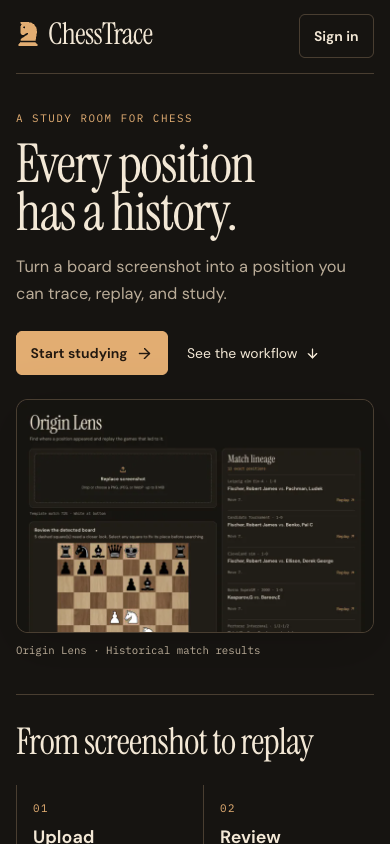
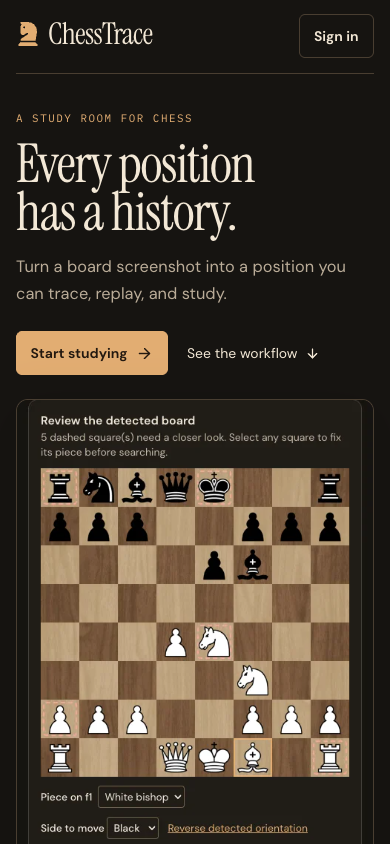
task 5.4: apply the five highest-impact design critique fixes

Changed region(s): [[0.0308, 0.4929, 0.9538, 1.0]]

diff --git a/client-ui/src/pages/OriginLens.jsx b/client-ui/src/pages/OriginLens.jsx
@@ -128,11 +128,16 @@ export default function OriginLens() {
   const uploading = phase === 'uploading';
   const uploadDisabled = visionHealthStatus === 'waking' || visionHealthStatus === 'error';
   const confidence = Math.round((visionResult?.theme_match_confidence ?? 0) * 100);
-  const matches = searchResult?.matches ?? [];
+  const games = new Map();
+  for (const match of searchResult?.matches ?? []) {
+    const key = match.gameId ?? match.game?.id ?? match.id;
+    if (!games.has(key)) games.set(key, match);
+  }
+  const matches = [...games.values()];
 
   return (
-    <main className="lens-workspace">
-      <header className="lens-header">
+    <main className="ct-workspace">
+      <header className="ct-workspace-header">
         <h1>Origin Lens</h1>
         <p>Find where a position appeared and replay the games that led to it.</p>
       </header>
@@ -144,7 +149,7 @@ export default function OriginLens() {
           {visionHealthStatus === 'error' && (
             <p role="alert" className="ct-panel p-3 text-sm text-red-700">The vision service is unavailable. <button type="button" className="underline" onClick={() => window.location.reload()}>Retry connection</button></p>
           )}
-          <div className="ct-panel lens-upload"
+          <div className="ct-panel lens-upload" data-has-result={!!visionResult}
             onDrop={event => { if (uploadDisabled) event.preventDefault(); else handleDrop(event); }}
             onDragOver={event => { event.preventDefault(); if (!uploadDisabled) setDragOver(true); }}
             onDragLeave={() => setDragOver(false)}>
@@ -152,7 +157,7 @@ export default function OriginLens() {
               disabled={uploadDisabled} onClick={() => fileRef.current?.click()}>
               {uploading ? <Loader2 size={22} className="text-accent animate-spin" aria-hidden="true" /> : <Upload size={22} className="text-accent" aria-hidden="true" />}
               <span className="font-semibold">{uploading ? 'Reading the board…' : previewUrl ? 'Replace screenshot' : 'Upload a board screenshot'}</span>
-              <span className="text-xs text-slate-500">Drop or choose a PNG, JPEG, or WebP · up to 8 MiB</span>
+              {!visionResult && <span className="text-xs text-slate-500">Drop or choose a PNG, JPEG, or WebP · up to 8 MiB</span>}
             </button>
             <input ref={fileRef} type="file" aria-label="Board screenshot" accept="image/png,image/jpeg,image/webp"
               className="hidden" onChange={handleFileSelect} />
@@ -180,8 +185,8 @@ export default function OriginLens() {
           )}
         </section>
 
-        <aside className="ct-panel lens-lineage" aria-label="Match lineage">
-          <h2>Match lineage</h2>
+        <aside className="ct-panel lens-lineage" aria-label="Matching games">
+          <h2>Matching games</h2>
           {phase === 'searching' ? (
             <div role="status" className="space-y-3 pt-4">
               <span className="sr-only">Searching the game database.</span>
@@ -189,7 +194,7 @@ export default function OriginLens() {
             </div>
           ) : searchResult ? (
             <>
-              <p className="mt-2 font-mono text-xs text-accent">{matches.length} {searchResult.matchType === 'exact' ? 'exact' : 'similar'} {matches.length === 1 ? 'position' : 'positions'}</p>
+              <p className="mt-2 font-mono text-xs text-accent">{matches.length} {matches.length === 1 ? 'game' : 'games'} with {searchResult.matchType === 'exact' ? 'this position' : 'similar positions'}</p>
               {!matches.length && <p className="py-6 text-sm text-slate-500">No matching games found. Check the position and side to move.</p>}
               {replay && <div className="my-4"><GameReplay key={replay.id} match={replay} /></div>}
               <ol>
@@ -200,12 +205,12 @@ export default function OriginLens() {
                     whiteName: game.whiteName, blackName: game.blackName };
                   return (
                     <li key={match.id} className="lens-match">
-                      <p className="font-mono text-xs text-slate-500">{[game.event, year, game.result].filter(Boolean).join(' · ') || 'Tournament details unavailable'}</p>
-                      <h3 className="text-base font-semibold">{game.whiteName} <span className="text-slate-500">vs.</span> {game.blackName}</h3>
-                      <div className="flex items-center justify-between gap-2">
-                        <span className="font-mono text-xs text-slate-500">Move {Math.ceil(match.halfMove / 2)}{match.halfMove % 2 ? '.' : '…'}</span>
+                      <p className="font-mono text-xs text-slate-500">{[game.event, year, game.result,
+                        `Move ${Math.ceil(match.halfMove / 2)}${match.halfMove % 2 ? '.' : '…'}`].filter(Boolean).join(' · ')}</p>
+                      <div className="flex items-center justify-between gap-3">
+                        <h3 className="text-base font-semibold">{game.whiteName} <span className="text-slate-500">vs.</span> {game.blackName}</h3>
                         {record.gameId && <button type="button" onClick={() => setReplay(record)}
-                          className="inline-flex min-h-11 items-center gap-1 text-sm text-accent" aria-pressed={replay?.id === match.id}>
+                          className="inline-flex min-h-11 shrink-0 items-center gap-1 text-sm text-accent" aria-pressed={replay?.id === match.id}>
                           Replay <ArrowUpRight size={15} aria-hidden="true" />
                         </button>}
                       </div>

diff --git a/client-ui/src/study.css b/client-ui/src/study.css
@@ -65,9 +65,9 @@
 .study-health { padding: .65rem 1rem; border-bottom: 1px solid var(--ct-line); font-size: .82rem; color: var(--ct-accent); }
 .study-menu { display: none; }
 
-.lens-workspace { max-width: 87rem; margin-inline: auto; padding: clamp(1rem, 3vw, 2.75rem); }
-.lens-header { margin-bottom: 1.4rem; }
-.lens-header p:last-child { color: var(--ct-muted); font-size: .92rem; margin-top: .6rem; }
+.ct-workspace { max-width: 87rem; margin-inline: auto; padding: clamp(1rem, 3vw, 2.75rem); }
+.ct-workspace-header { margin-bottom: 1.4rem; }
+.ct-workspace-header p:last-child { color: var(--ct-muted); font-size: .92rem; margin-top: .6rem; }
 .lens-layout { display: grid; grid-template-columns: minmax(0, 1.15fr) minmax(17rem, .85fr); gap: 1.25rem; align-items: start; }
 .lens-upload { padding: 1rem; }
 .lens-upload-action {
@@ -102,7 +102,7 @@
 @keyframes scan-board { from { top: 3%; } to { top: 96%; } }
 .lens-lineage { padding: 1.1rem; }
 .lens-lineage h2 { font: 400 2.15rem/1 var(--ct-font-display); }
-.lens-match { border-top: 1px solid var(--ct-line); padding: .9rem 0; display: grid; gap: .3rem; }
+.lens-match { border-top: 1px solid var(--ct-line); padding: .6rem 0 .4rem; }
 .lens-match:first-child { margin-top: .7rem; }
 .ct-skeleton { border-radius: .2rem; background: var(--ct-line); animation: pulse-skeleton 1400ms ease-in-out infinite alternate; }
 @keyframes pulse-skeleton { to { opacity: .45; } }
@@ -117,7 +117,7 @@
 
 @media (max-width: 900px) {
   .lens-layout { grid-template-columns: minmax(0,1fr); }
-  .study-shell { grid-template-columns: minmax(0,1fr); }
+  .study-shell { grid-template-columns: minmax(0,1fr); grid-template-rows: auto 1fr; }
   .study-sidebar { height: auto; z-index: 10; padding: .55rem 1rem; flex-direction: row; align-items: center; justify-content: space-between; border-right: none; border-bottom: 1px solid var(--ct-line); }
   .study-menu { display: inline-flex; min-height: 44px; min-width: 44px; align-items: center; justify-content: center; color: var(--ct-ink); }
   .study-sidebar .study-navigation { display: none; position: absolute; inset: 100% 0 auto; padding: .65rem 1rem; background: var(--ct-sidebar); border-bottom: 1px solid var(--ct-line); }
@@ -127,4 +127,22 @@
 }
 @media (min-width: 901px) {
   .study-sidebar { flex-direction: column; }
+}
+
+.lens-upload[data-has-result="true"] { padding: .5rem; }
+.lens-upload[data-has-result="true"] .lens-upload-action {
+  min-height: 3rem;
+  grid-template-columns: auto 1fr;
+  align-items: center;
+  justify-items: start;
+  padding: .45rem .8rem;
+  border-style: solid;
+}
+
+.sandbox-layout { display: grid; gap: 1.2rem; grid-template-columns: minmax(0,1fr) minmax(17rem,.57fr); align-items: start; }
+.sandbox-board { max-width: 36rem; }
+.sandbox-similar { grid-column: 1; min-width: 0; }
+@media (max-width: 1060px) {
+  .sandbox-layout { grid-template-columns: minmax(0,1fr); }
+  .sandbox-similar { grid-column: auto; }
 }

diff --git a/client-ui/src/pages/Sandbox.jsx b/client-ui/src/pages/Sandbox.jsx
@@ -64,27 +64,29 @@ export default function Sandbox() {
   }
 
   return (
-    <main className="p-4 md:p-8 space-y-5">
-      <h1 className="text-2xl font-semibold text-slate-900">Blueprint Sandbox</h1>
-      <div className="grid gap-6 xl:grid-cols-[minmax(0,1fr)_20rem]">
-        <section className="min-w-0 space-y-4">
+    <main className="ct-workspace">
+      <header className="ct-workspace-header">
+        <h1>Sandbox</h1>
+        <p>Play through a position, compare matches, and explore the next move.</p>
+      </header>
+      <div className="sandbox-layout">
+        <section className="sandbox-board min-w-0 space-y-4">
           <label className="block text-sm font-medium">FEN position
             <input type="text" value={fen} onChange={event => changeFen(event.target.value)}
               className="mt-1 w-full rounded-md border border-slate-300 p-2 font-mono text-xs" />
           </label>
-          {position.error && <p role="status" className="text-sm text-red-700">{position.error} Search DB is disabled.</p>}
+          {position.error && <p role="status" className="text-sm text-red-700">{position.error} Matching games is unavailable until the position is valid.</p>}
           <div className="max-w-xl">
             <Board fen={position.chess?.fen() ?? '8/8/8/8/8/8/8/8'} onMove={movePiece}
               interactive={!position.error} turnColor={position.chess?.turn() === 'b' ? 'black' : 'white'} viewOnly />
           </div>
           {moveError && <p role="status" className="text-sm text-red-700">{moveError}</p>}
           <button type="button" onClick={search} disabled={!!position.error || searching}
-            className="rounded bg-[var(--ct-accent)] px-4 py-2 font-medium text-white disabled:opacity-50">
-            {searching ? 'Searching…' : 'Search DB'}
+            className="ct-button">
+            {searching ? 'Searching…' : 'Find matching games'}
           </button>
           {searchError && <p role="alert" className="text-sm text-red-700">{searchError}</p>}
           {result && <p role="status" className="text-sm">{result.matches.length} {result.matchType === 'exact' ? 'exact' : 'similar'} positions found.</p>}
-          {!position.error && <SimilarPositions key={position.fen} fen={position.fen} />}
         </section>
         <section className="space-y-3">
           <div className="ct-panel"><MoveLedger moves={moves} /></div>
@@ -92,6 +94,7 @@ export default function Sandbox() {
             : <p className="rounded bg-slate-100 p-4 text-sm">Stockfish needs a position it can analyze safely. Check the FEN and try again.</p>}
           {position.error && position.engineFen && <p className="text-sm text-slate-600">Stockfish is analyzing with corrected position metadata.</p>}
         </section>
+        {!position.error && <div className="sandbox-similar"><SimilarPositions key={position.fen} fen={position.fen} /></div>}
       </div>
     </main>
   );

diff --git a/client-ui/src/pages/Landing.jsx b/client-ui/src/pages/Landing.jsx
@@ -4,7 +4,7 @@ import ChessTraceLogo from '../components/ChessTraceLogo';
 import { useAuth } from '../context/AuthContext';
 import '../landing.css';
 
-const imageSizes = '(max-width: 760px) calc(100vw - 32px), (max-width: 1350px) 54vw, 752px';
+const imageSizes = '(max-width: 1350px) 54vw, 752px';
 
 const steps = [
   ['Upload', 'Start with a screenshot of a digital chessboard.'],
@@ -38,8 +38,12 @@ export default function Landing() {
             </div>
           </div>
           <figure className="landing-figure">
-            <img src="/product/origin-lens.webp" srcSet="/product/origin-lens-720.webp 720w, /product/origin-lens.webp 1100w" sizes={imageSizes} alt="Origin Lens showing a reconstructed board and exact historical matches"
-              width="1100" height="715" fetchPriority="high" />
+            <picture>
+              <source media="(max-width: 760px)" srcSet="/product/origin-lens-mobile.webp" width="480" height="933" />
+              <img src="/product/origin-lens.webp" srcSet="/product/origin-lens-720.webp 720w, /product/origin-lens.webp 1100w" sizes={imageSizes}
+                alt="Origin Lens showing a reconstructed board and exact historical matches"
+                width="1100" height="926" fetchPriority="high" />
+            </picture>
             <figcaption>Origin Lens · Historical match results</figcaption>
           </figure>
         </section>
@@ -64,8 +68,12 @@ export default function Landing() {
             <Link to={token ? '/sandbox' : '/auth'} className="ct-quiet">Open Sandbox <ArrowRight size={16} aria-hidden="true" /></Link>
           </div>
           <figure className="landing-figure">
-            <img src="/product/sandbox.webp" srcSet="/product/sandbox-720.webp 720w, /product/sandbox.webp 1100w" sizes={imageSizes} alt="Sandbox showing the board, a move list, and Stockfish evaluation"
-              width="1100" height="656" loading="lazy" />
+            <picture>
+              <source media="(max-width: 760px)" srcSet="/product/sandbox-mobile.webp" width="480" height="1055" />
+              <img src="/product/sandbox.webp" srcSet="/product/sandbox-720.webp 720w, /product/sandbox.webp 1100w" sizes={imageSizes}
+                alt="Sandbox showing the board, a move list, and Stockfish evaluation"
+                width="1100" height="807" loading="lazy" />
+            </picture>
             <figcaption>Sandbox · Board, move list, and evaluation</figcaption>
           </figure>
         </section>

diff --git a/client-ui/index.html b/client-ui/index.html
@@ -11,8 +11,12 @@
         const preview = document.createElement('link');
         preview.rel = 'preload';
         preview.as = 'image';
-        preview.imageSrcset = '/product/origin-lens-720.webp 720w, /product/origin-lens.webp 1100w';
-        preview.imageSizes = '(max-width: 760px) calc(100vw - 32px), (max-width: 1350px) 54vw, 752px';
+        if (matchMedia('(max-width: 760px)').matches) {
+          preview.href = '/product/origin-lens-mobile.webp';
+        } else {
+          preview.imageSrcset = '/product/origin-lens-720.webp 720w, /product/origin-lens.webp 1100w';
+          preview.imageSizes = '(max-width: 1350px) 54vw, 752px';
+        }
         preview.fetchPriority = 'high';
         document.head.append(preview);
       }

diff --git a/client-ui/src/components/Board/Board.css b/client-ui/src/components/Board/Board.css
@@ -1,7 +1,4 @@
-/* ChessTrace board — light theme for chessground.
-   Chessground renders the board grid as a background on <cg-board>,
-   not as individual <square> elements. We paint a CSS checkerboard
-   gradient instead via the 64-div React grid in Board.jsx. */
+/* Keep the texture, piece grid and review targets on the same square. */
 
 .ct-board-host.cg-wrap {
   position: absolute;
@@ -17,6 +14,11 @@
 
 .ct-board-surface {
   background: #9b714b url('../../assets/boards/walnut.webp') center / 100% 100% no-repeat;
+}
+
+.ct-board-surface cg-container {
+  width: 100% !important;
+  height: 100% !important;
 }
 
 .ct-board-surface cg-board {

diff --git a/client-ui/src/components/Board/MoveLedger.jsx b/client-ui/src/components/Board/MoveLedger.jsx
@@ -30,7 +30,7 @@ export function MoveLedger({ moves, ply = moves.length, onSelect, comments }) {
     <section aria-label="Move list">
       <div className="flex items-center justify-between px-3 py-2">
         <h3 className="text-sm font-semibold">Move list</h3>
-        <span className="font-mono text-xs text-slate-500">{moves.length} half-moves</span>
+        <span className="font-mono text-xs text-slate-500">{moves.length} {moves.length === 1 ? 'half-move' : 'half-moves'}</span>
       </div>
       <div className="move-ledger font-mono text-xs">
         {rows.size ? [...rows.values()].map(row => (

diff --git a/client-ui/src/index.css b/client-ui/src/index.css
@@ -90,6 +90,6 @@
     animation-duration: .01ms !important;
     animation-iteration-count: 1 !important;
     scroll-behavior: auto !important;
-    transition-duration: .01ms !important;
+    transition: none !important;
   }
 }

diff --git a/docs/ui/CRITIQUE.md b/docs/ui/CRITIQUE.md
@@ -1,0 +1,18 @@
+# Astra design review
+
+A separate critique reviewed the desktop and mobile screenshots and the relevant components. The findings are ordered by impact.
+
+| Rank | Finding | Resolution |
+| ---: | --- | --- |
+| 1 | Mobile Lens had about 100px of space between the navigation and title. | Give the header a content-sized grid row and let the workspace take the remaining height. |
+| 2 | The upload control occupied about 200px after a board had been recognized. | Use a compact replace control in review state so the board and search action come into view earlier. |
+| 3 | Landing previews cropped the bottom of the board. The desktop layout also shrank the result text on phones. | Capture complete boards and use dedicated mobile preview crops. |
+| 4 | Sandbox used a different name from its navigation item and a terse search label. | Share the Lens workspace header, explain what Sandbox does, and use the 44px primary button for finding matching games. |
+| 5 | Match results took up too much vertical space and counted positions while listing games. | Count distinct games and place move, tournament, and year metadata together. Keep Replay at least 44px high. |
+| 6 | The template-match score was more prominent than the squares needing review. | Consider making the highlighted square count the primary review instruction. |
+| 7 | The engine heading wrapped and raw coordinate moves took effort to read. | Consider giving the heading a full row and formatting the principal variation as SAN. |
+| 8 | The Sandbox FEN field extended beyond the board width. | Align the position input with the board as part of the shared workspace layout. |
+| 9 | Preview captions and uppercase labels were small on mobile. | Increase informational captions to at least 12px in a future typography pass. |
+| 10 | Recognition combined a scan line and a spinner. | Consider using the scan line and text during recognition, and skeletons during search. |
+
+The five highest-impact changes are reflected in the final captures in this directory.

diff --git a/docs/STATUS.md b/docs/STATUS.md
@@ -1,6 +1,6 @@
 # ChessTrace status
 
-Updated 2026-11-11 on branch `task/blockers`; B2 (1.1–1.4), B3 (2.1–2.3), B4 (3.1–3.3), and B5 (4.1–4.4) are implemented.
+Updated 2026-11-11 on branch `task/blockers`; B2 (1.1–1.4), B3 (2.1–2.3), B4 (3.1–3.3), B5 (4.1–4.4), and B6 (5.1–5.4) are implemented.
 
 ## Verification
 
@@ -54,3 +54,11 @@ See [MIGRATIONS.md](MIGRATIONS.md) for exact Neon commands and baseline handling
 - Vault saves and edits multiple motifs. An SM-2 review and its history are recorded atomically. The weekly chart uses ratings from the last 90 days and counts quality 3 or higher as a reported solve.
 - Sandbox validates drops and gates search on FEN validity. Stockfish can still use corrected castling or en passant metadata when the board is safe to analyze.
 - Similar positions returns up to ten HNSW matches. Opening and decade filters apply to the nearest 1,000 candidates. A result opens its stored game at the matching ply. Live PostgreSQL EXPLAIN confirmed the HNSW index scan.
+
+
+## B6 study room
+
+- The dark study-room palette, self-hosted fonts, walnut board, animated evaluation, and move list apply to the client. The public landing page uses Chrome captures of the running application.
+- Origin Lens supports keyboard upload, piece correction, castling edits, distinct game results, and direct replay. The live browser check found the Anand–Bareev position and opened its stored game.
+- The production landing page scored 98 performance and 100 accessibility, best practices, and SEO in mobile Lighthouse. Chrome checked 390px navigation and board resizing with reduced motion enabled.
+- [UI captures and critique](ui/README.md) show the desktop and mobile states and document Astra’s ten ranked findings and the five applied changes.

diff --git a/docs/ui/README.md b/docs/ui/README.md
@@ -6,6 +6,10 @@ Chrome captures of the local client, using the local vision service and public g
 - [Landing mobile](landing-mobile.png)
 - [Origin Lens desktop](lens-desktop.png)
 - [Origin Lens mobile](lens-mobile.png)
+- [Origin Lens mobile board review](lens-review-mobile.png)
 - [Sandbox desktop](sandbox-desktop.png)
+- [Sandbox mobile](sandbox-mobile.png)
 
-Mobile Lighthouse on the production preview landing page scored 99 for performance and 100 for accessibility, best practices, and SEO. Chrome checks covered desktop and 390px mobile navigation, the registration CTA, keyboard upload, corrected castling rights, a live exact match, and replay.
+Mobile Lighthouse on the production preview landing page scored 98 for performance and 100 for accessibility, best practices, and SEO. Chrome checks covered desktop and 390px mobile navigation, the registration CTA, keyboard upload, corrected castling rights, a live exact match, replay, and board alignment while resizing with reduced motion enabled.
+
+See the ten ranked findings and the five implemented changes in [CRITIQUE.md](CRITIQUE.md).
